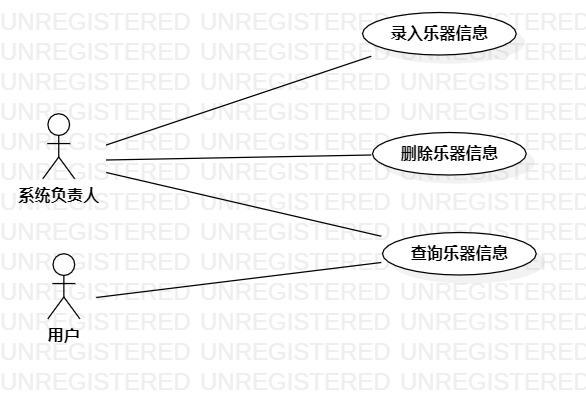
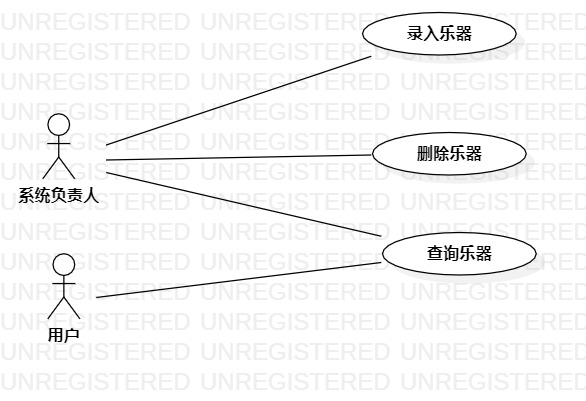
删除信息二字

Changed region(s): [[0.6758, 0.3591, 0.8601, 0.419], [0.6451, 0.0599, 0.8294, 0.1197], [0.7065, 0.5985, 0.8601, 0.6584]]

diff --git a/students/1714080902102/lab2.md b/students/1714080902102/lab2.md
@@ -13,11 +13,11 @@
 
 ## 三、实验步骤
 
-1. 在issues上提交“乐器信息查询系统”选题与相关功能：
+1. 在issues上提交“乐器查询系统”选题与相关功能：
 
-- 录入乐器信息
-- 查询乐器信息
-- 删除乐器信息
+- 录入乐器
+- 查询乐器
+- 删除乐器
 
 2. 根据选题和所选功能在StarUML上画出用例图：
 
@@ -34,41 +34,41 @@
 
 图1：“乐器信息查询系统”用例图
 
-## 表1：录入乐器信息用例规约
+## 表1：录入乐器用例规约
 
 | 用例编号 | UC01                            |
 | ---- | ------------------------------- |
-| 用例名称 | 录入乐器信息                          |
-| 前置条件 | 系统负责人进入录入信息界面                   |
+| 用例名称 | 录入乐器                            |
+| 前置条件 | 系统负责人进入录入界面                     |
 | 基本流程 | 1.系统负责人点击录入按钮；                  |
-| ~    | 2.系统负责人录入乐器各方面的信息；              |
+| ~    | 2.系统负责人录入乐器；                    |
 | ~    | 3.系统负责人点击确定；                    |
-| ~    | 4.系统检查录入信息；                     |
-| ~    | 5.系统保存信息，并提示“**录入成功**”。         |
-| 扩展流程 | 4.1系统发现录入信息有重复，并提示“**请勿重复录入**”。 |
+| ~    | 4.系统检查录入的乐器；                    |
+| ~    | 5.系统保存乐器，并提示“**录入成功**”。         |
+| 扩展流程 | 4.1系统发现录入乐器有重复，并提示“**请勿重复录入**”。 |
 
-## 表2：查询乐器信息用例规约
+## 表2：查询乐器用例规约
 
 | 用例编号 | UC02                               |
 | ---- | :--------------------------------- |
-| 用例名称 | 查询乐器信息                             |
+| 用例名称 | 查询乐器                               |
 | 前置条件 | 用户进入乐器查询界面                         |
 | 基本流程 | 1. 用户点击搜索框；                        |
 | ~    | 2. 用户输入乐器名称；                       |
 | ~    | 3.用户点击搜索；                          |
 | ~    | 4.系统检查输入的乐器名称；                     |
-| ~    | 5.系统显示乐器相关的信息；                     |
+| ~    | 5.系统显示乐器；                          |
 | 扩展流程 | 4.1系统检查输入的乐器名称为空，提示“**乐器名称不能为空**”； |
-## 表3：删除乐器信息用例规约
+## 表3：删除乐器用例规约
 
 | 用例编号 | UC03                             |
 | ---- | -------------------------------- |
-| 用例名称 | 删除乐器信息                           |
+| 用例名称 | 删除乐器                             |
 | 前置条件 | 系统负责人进入删除乐器信息界面                  |
 | 基本流程 | 1.系统负责人选中想要删除的乐器信息；              |
 | ~    | 2.系统负责人点击删除；                     |
 | ~    | 3.系统**跳出**提出框，提示“**是否删除？**”；     |
 | ~    | 4.系统负责人点击确定；                     |
-| ~    | 5.系统检查信息占用情况；                    |
-| ~    | 6.系统删除该乐器信息，并提示“**删除成功**”；       |
-| 扩展流程 | 5.1 系统删除失败，提示“**信息被占用，请稍后再删除**”； |
+| ~    | 5.系统检查乐器占用情况；                    |
+| ~    | 6.系统删除该乐器，并提示“**删除成功**”；         |
+| 扩展流程 | 5.1 系统删除失败，提示“**乐器被占用，请稍后再删除**”； |

diff --git a/students/1714080902102/lab6.md b/students/1714080902102/lab6.md
@@ -11,11 +11,11 @@
 
 - 根据用例模型和类模型，确定功能所涉及的系统对象；
 
-  1.录入乐器信息顺序图
+  1.录入乐器顺序图
 
-  2.查询乐器信息顺序图
+  2.查询乐器顺序图
 
-  3.删除乐器信息顺序图
+  3.删除乐器顺序图
 
 - 在顺序图上画出参与者（对象）；
 
@@ -41,14 +41,14 @@
 
 ## 四、实验结果
 
-![录入乐器信息顺序图](./lab6_录入乐器信息顺序图.jpg)
+![录入乐器顺序图](./lab6_录入乐器顺序图.jpg)
 
-图1 录入乐器信息顺序图
+图1 录入乐器顺序图
 
-![查询乐器信息顺序图](./lab6_查询乐器信息顺序图.jpg)
+![查询乐器顺序图](./lab6_查询乐器顺序图.jpg)
 
-图2 查询乐器信息顺序图 
+图2 查询乐器顺序图 
 
-![删除乐器信息顺序图](./lab6_删除乐器信息顺序图.jpg)
+![删除乐器顺序图](./lab6_删除乐器顺序图.jpg)
 
-图3 删除乐器信息顺序图
+图3 删除乐器顺序图

diff --git a/students/1714080902102/lab45.md b/students/1714080902102/lab45.md
@@ -23,14 +23,14 @@
 
 ## 四、实验结果
 
-![录入乐器信息类图](./lab45_录入乐器信息.jpg)
+![录入乐器类图](./lab45_录入乐器类图.jpg)
 
-									图一：录入乐器信息类图
+									图一：录入乐器类图
 
-![查询乐器信息类图](./lab45_查询乐器信息.jpg)
+![查询乐器类图](./lab45_查询乐器类图.jpg)
 
-									图二：查询乐器信息类图
+									图二：查询乐器类图
 
-![删除乐器信息类图](./lab45_删除乐器信息.jpg)
+![删除乐器类图](./lab45_删除乐器类图.jpg)
 
-										图三：删除乐器信息类图
+										图三：删除乐器类图

diff --git a/students/1714080902102/lab3.md b/students/1714080902102/lab3.md
@@ -21,14 +21,14 @@
 
 ## 4. 实验结果
 
-![录入乐器信息](./lab3_录入乐器信息.jpg)
+![录入乐器活动图](./lab3_录入乐器活动图.jpg)
 
-									图1. 录入乐器信息活动图
+									图1. 录入乐器活动图
 
-![查询乐器信息](./lab3_查询乐器信息.jpg)
+![查询乐器活动图](./lab3_查询乐器活动图.jpg)
 
-									图2. 查询乐器信息活动图
+									图2. 查询乐器活动图
 
-![删除乐器信息](./lab3_删除乐器信息.jpg)
+![删除乐器活动图](./lab3_删除乐器活动图.jpg)
 
-									图3. 删除乐器信息活动图
+									图3. 删除乐器活动图
